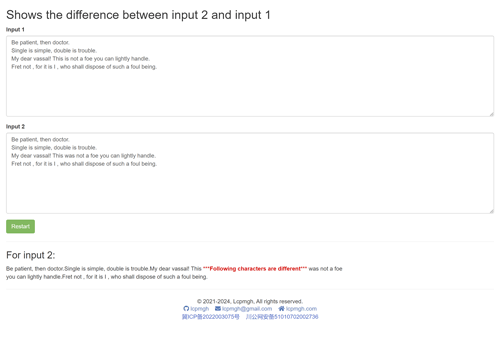
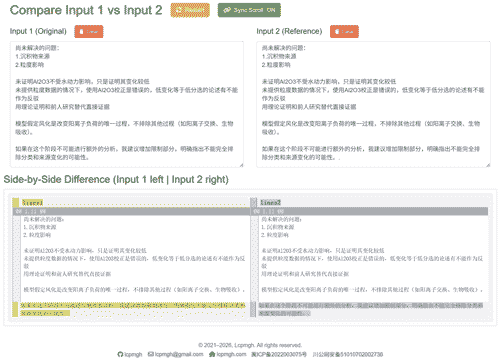
更新文件

diff --git a/index.html b/index.html
@@ -140,8 +140,8 @@
                     <p>收集自顶刊论文的绘图配色方案</p>
                 </div>						
                 <div class="app">
-                    <a href="http://lcpmgh.com/npmcm">
-                        <img src="https://lcpmgh.github.io/tempfiles/Rnote/aaapicture/app_npmcm.png" alt="npmcm">
+                    <a href="http://lcpmgh.com/cpmcm-awards">
+                        <img src="https://lcpmgh.github.io/tempfiles/Rnote/aaapicture/aaapicture/app_cpmcm-awards.png" alt="cpmcm-awards">
                     </a>
 					<h4>中国研究生数学建模竞赛获奖信息可视化</h4>
                     <p>数模研赛举办以来的历年获奖情况统计</p>
@@ -209,6 +209,13 @@
 					<h4>文本对比</h4>
                     <p>比较两段文本的差异</p>
                 </div>
+				<div class="app">
+                    <a href="http://lcpmgh.com/chinese">
+                        <img src="https://lcpmgh.github.io/tempfiles/Rnote/aaapicture/app_chinese.png" alt="chinese">
+                    </a>
+					<h4>中文字符简繁转换</h4>
+                    <p>利用pyton opencc库转换中文字符简繁体</p>
+                </div>				
                 <div class="app">
                     <a href="http://lcpmgh.com/count">
                         <img src="https://lcpmgh.github.io/tempfiles/Rnote/aaapicture/app_count.png" alt="count">
